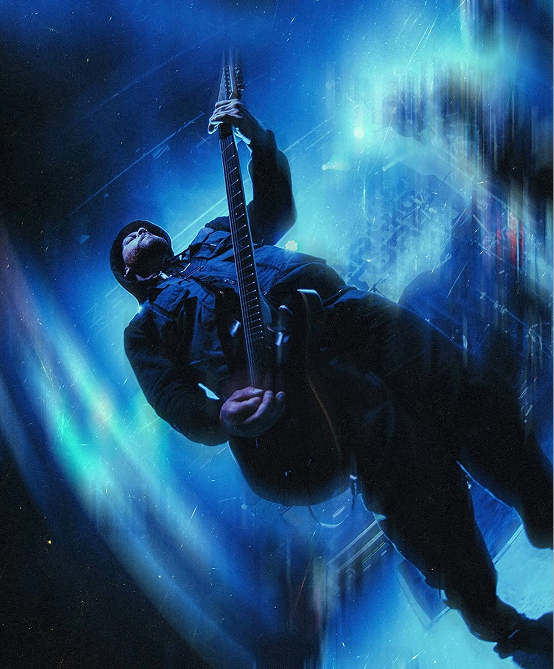
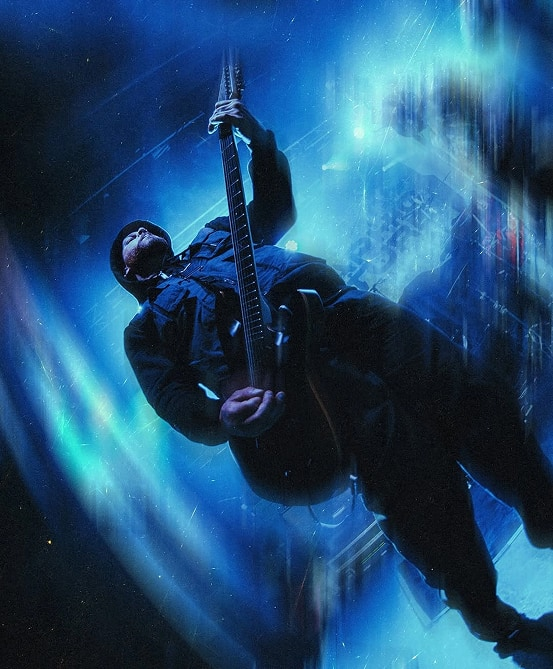
Trim the photos' export edge and drift them with the scroll
The white line was in the files, not the CSS. Both JPEGs carried a single
column of light pixels on their right edge — rgb(139,152,161) and
rgb(194,198,199), against normal image content in the column beside it —
which is a frame stroke caught in the Figma export. Left, top and bottom
were clean. Trimmed that column; worth turning the stroke off before the
real shoot is exported.

The frames now lag the page as it scrolls. Distances differ on purpose, 40
against 90: matched, the pair slides as one block and reads as a rendering
quirk, so instead the space between them opens and closes as they pass.
Measured across a full pass, drift runs -38/-90 through 8/12 to 32/70, with
the spread between them moving 52 -> 4 -> 38.

Two elements, not one. The drift is a MotionValue on an outer wrapper and
the entrance stays on an inner one, because both write to `transform` and
would otherwise overwrite each other. The MotionValue also keeps this off
React's render path, which matters more here than for an entrance — it runs
on every scroll event rather than once.

Reduced motion flattens the travel to zero rather than dropping the
wrapper, so the tree is identical on both sides of hydration. Verified at
0/0.

diff --git a/app/(site)/about/page.tsx b/app/(site)/about/page.tsx
@@ -5,6 +5,7 @@ import Link from "next/link";
 import aboutBodyOne from "@/public/about-bodyimage-one.jpg";
 import aboutBodyTwo from "@/public/about-bodyimage-two.jpg";
 import aboutHero from "@/public/about-hero-image.png";
+import { Parallax } from "@/components/motion/parallax";
 import { Reveal, Stagger, StaggerItem, WordReveal } from "@/components/motion/reveal";
 import { buttonClasses } from "@/components/ui/button";
 import { PageHero } from "@/components/ui/page-hero";
@@ -132,31 +133,45 @@ export default function AboutPage() {
       <section className="py-20 md:py-28">
         <div className={shell}>
           {/*
-            No aspect forced on the frames. Both photographs are 554x669, the
+            No aspect forced on the frames. Both photographs carry the
             reference's proportions rather than the 4:5 the placeholders were
-            sitting in, so letting them size themselves is the difference
-            between showing them and cropping 3.5% off each.
+            sitting in, so letting them size themselves shows them instead of
+            cropping off the difference.
+
+            Two layers of motion, on two elements. The outer one drifts with
+            the scroll and the inner one handles the entrance; both write to
+            `transform`, so on a single node they would overwrite each other.
+
+            The distances differ deliberately — 40 against 90. Matching them
+            would slide the pair as one block, which reads as a rendering
+            quirk rather than movement. Unmatched, the gap between the frames
+            opens and closes as they pass.
           */}
-          <Stagger className="grid gap-6 md:grid-cols-2 md:gap-8">
-            <StaggerItem>
-              <Image
-                src={aboutBodyOne}
-                alt="A guitarist on stage, lit from behind in blue"
-                placeholder="blur"
-                sizes="(min-width: 768px) 50vw, 100vw"
-                className="h-auto w-full"
-              />
-            </StaggerItem>
-            <StaggerItem className="md:mt-40">
-              <Image
-                src={aboutBodyTwo}
-                alt="A guitarist mid-performance, caught in motion blur"
-                placeholder="blur"
-                sizes="(min-width: 768px) 50vw, 100vw"
-                className="h-auto w-full"
-              />
-            </StaggerItem>
-          </Stagger>
+          <div className="grid gap-6 md:grid-cols-2 md:gap-8">
+            <Parallax distance={40}>
+              <Reveal>
+                <Image
+                  src={aboutBodyOne}
+                  alt="A guitarist on stage, lit from behind in blue"
+                  placeholder="blur"
+                  sizes="(min-width: 768px) 50vw, 100vw"
+                  className="h-auto w-full"
+                />
+              </Reveal>
+            </Parallax>
+
+            <Parallax distance={90} className="md:mt-40">
+              <Reveal delay={0.12}>
+                <Image
+                  src={aboutBodyTwo}
+                  alt="A guitarist mid-performance, caught in motion blur"
+                  placeholder="blur"
+                  sizes="(min-width: 768px) 50vw, 100vw"
+                  className="h-auto w-full"
+                />
+              </Reveal>
+            </Parallax>
+          </div>
         </div>
       </section>
 

diff --git a/components/motion/parallax.tsx b/components/motion/parallax.tsx
@@ -1,0 +1,65 @@
+"use client";
+
+import { m, useReducedMotion, useScroll, useTransform } from "motion/react";
+import { useRef, type ReactNode } from "react";
+
+/*
+ * Scroll-linked drift.
+ *
+ * The element travels slower than the page it sits on, so it appears to hang
+ * back as you scroll past. Give two neighbours different distances and the
+ * space between them opens and closes, which is what stops a pair of static
+ * frames sitting there like a contact sheet.
+ *
+ * Driven by a MotionValue rather than state: `useTransform` writes straight
+ * to the DOM, so this costs no React renders on any of the frames it moves.
+ * That matters here more than usual — this runs on every scroll event, not
+ * once on entry.
+ *
+ * `y` only. The entrance animation belongs to a separate element inside this
+ * one; both write to `transform`, so putting them on the same node would
+ * have them overwrite each other.
+ */
+export function Parallax({
+  children,
+  distance = 60,
+  className,
+}: {
+  children: ReactNode;
+  /* Pixels of lag at each end of the travel. Larger reads as slower. */
+  distance?: number;
+  className?: string;
+}) {
+  const ref = useRef<HTMLDivElement>(null);
+  const reduced = useReducedMotion();
+
+  /*
+   * Measured across the element's whole pass through the viewport — 0 as it
+   * enters from the bottom, 1 as it leaves the top — so the drift is spent
+   * over the full time it is on screen rather than in a burst.
+   */
+  const { scrollYProgress } = useScroll({
+    target: ref,
+    offset: ["start end", "end start"],
+  });
+
+  /*
+   * Negative to positive: the offset grows as the page scrolls down, which
+   * subtracts from how far the element rises. That is the lag.
+   *
+   * Reduced motion flattens the range rather than dropping the wrapper, so
+   * the tree is identical either way — the same rule the rest of the motion
+   * here follows, since `useReducedMotion` is null on the server and would
+   * otherwise render different markup on each side.
+   */
+  const travel = reduced ? 0 : distance;
+  const y = useTransform(scrollYProgress, [0, 1], [-travel, travel]);
+
+  return (
+    <div ref={ref} className={className}>
+      <m.div data-parallax style={{ y }}>
+        {children}
+      </m.div>
+    </div>
+  );
+}
